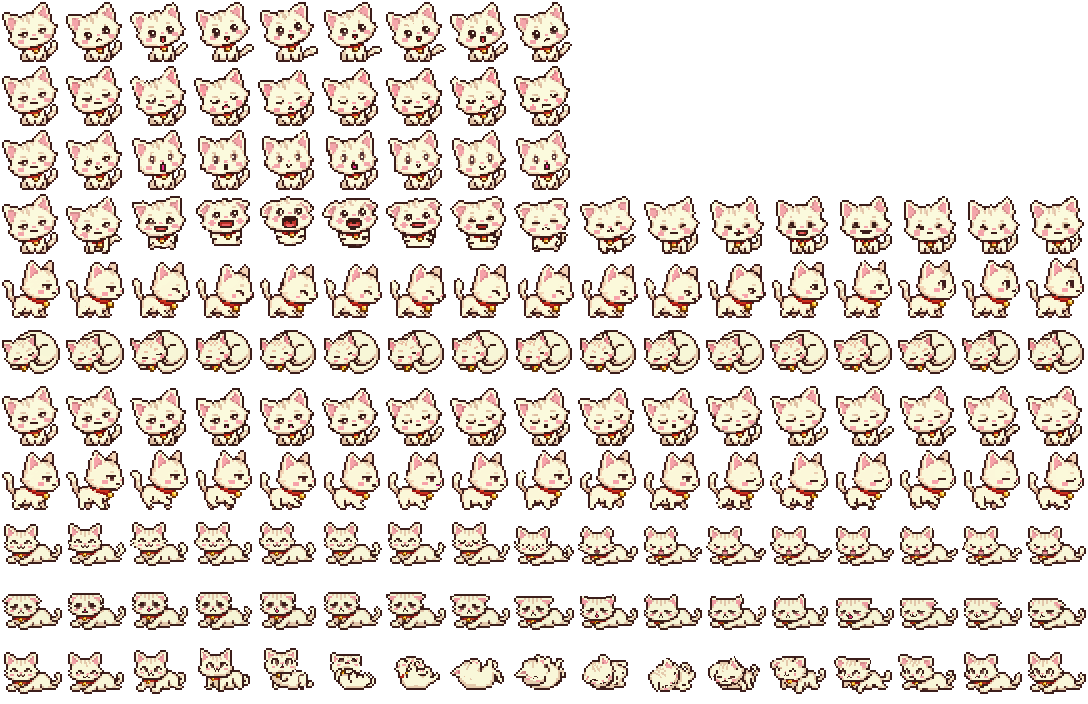
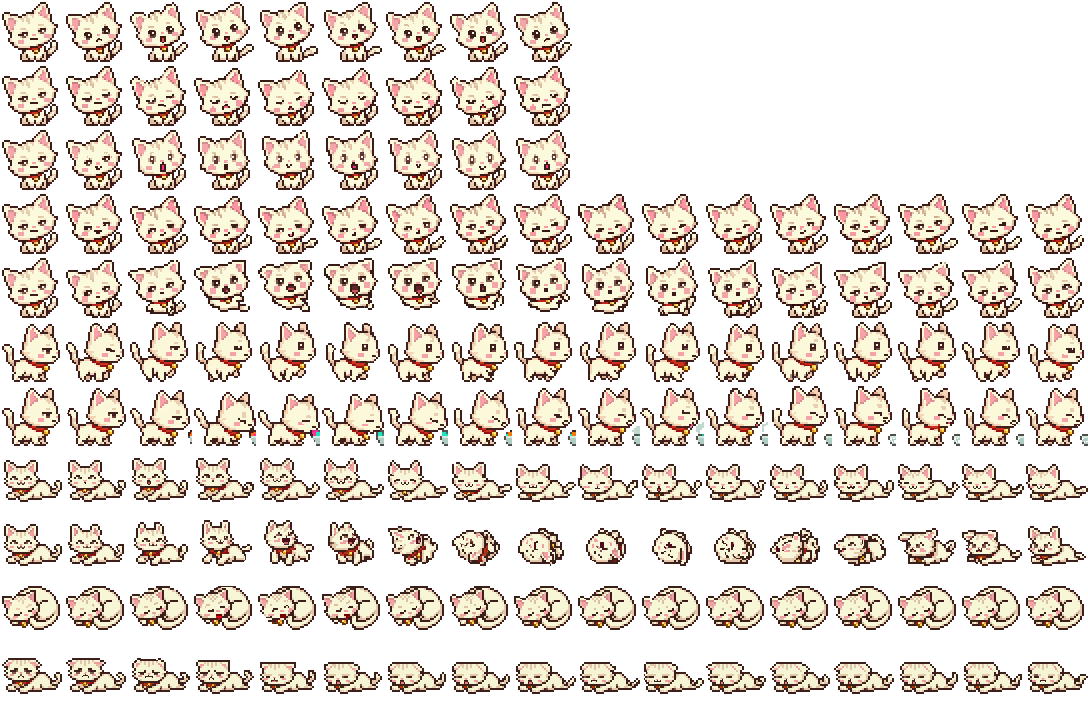
Новые анимации для взрослых кошек (1.25.0) (#83)
Claude-Session: https://claude.ai/code/session_01Xy48j64qLpetrE3qonuyEK

Changed region(s): [[0.0, 0.2812, 1.0, 1.0]]

diff --git a/src/render/petMeta.ts b/src/render/petMeta.ts
@@ -20,15 +20,15 @@ export interface SheetMeta {
 }
 
 export const PET_META: Readonly<Record<string, SheetMeta>> = {
-  cat_adultGood: { cell: 64, cols: 17, rows: ['idle', 'sleep', 'eat', 'catch', 'eat_side', 'roll', 'sleep_twitch', 'idle_calm', 'walk_calm', 'lie_calm', 'lie_sad'], feet: 62, left: 2, right: 60, rowInfo: { catch: { feet: 62, left: 2, right: 60, frames: 17 }, eat_side: { feet: 62, left: 2, right: 64, frames: 17 }, roll: { feet: 58, left: 2, right: 62, frames: 17 }, sleep_twitch: { feet: 58, left: 2, right: 58, frames: 17 }, idle_calm: { feet: 62, left: 2, right: 60, frames: 17 }, walk_calm: { feet: 62, left: 2, right: 62, frames: 17 }, lie_calm: { feet: 58, left: 2, right: 62, frames: 17 }, lie_sad: { feet: 58, left: 2, right: 62, frames: 17 } } },
+  cat_adultGood: { cell: 64, cols: 17, rows: ['idle', 'sleep', 'eat', 'idle_v3', 'catch_v3', 'walk_v3', 'eat_v3', 'lie_v3', 'roll_v3', 'sleep_v3', 'sad_v3'], feet: 62, left: 2, right: 60, rowInfo: { idle_v3: { feet: 62, left: 2, right: 62, frames: 17 }, catch_v3: { feet: 62, left: 2, right: 60, frames: 17 }, walk_v3: { feet: 62, left: 2, right: 62, frames: 17 }, eat_v3: { feet: 62, left: 0, right: 64, frames: 17 }, lie_v3: { feet: 58, left: 0, right: 62, frames: 17 }, roll_v3: { feet: 58, left: 2, right: 62, frames: 17 }, sleep_v3: { feet: 58, left: 2, right: 58, frames: 17 }, sad_v3: { feet: 58, left: 2, right: 62, frames: 17 } } },
   blob_adultGood: { cell: 64, cols: 17, rows: ['idle', 'sleep', 'eat', 'catch', 'eat_side', 'roll', 'sleep_twitch', 'idle_calm', 'walk_calm', 'lie_calm', 'lie_sad'], feet: 62, left: 4, right: 60, rowInfo: { catch: { feet: 62, left: 4, right: 60, frames: 17 }, eat_side: { feet: 56, left: 4, right: 60, frames: 17 }, roll: { feet: 58, left: 4, right: 60, frames: 17 }, sleep_twitch: { feet: 56, left: 4, right: 60, frames: 17 }, idle_calm: { feet: 62, left: 4, right: 60, frames: 17 }, walk_calm: { feet: 56, left: 4, right: 60, frames: 17 }, lie_calm: { feet: 58, left: 4, right: 60, frames: 17 }, lie_sad: { feet: 58, left: 4, right: 60, frames: 17 } } },
   dog_adultGood: { cell: 64, cols: 17, rows: ['idle', 'sleep', 'eat', 'catch', 'eat_side', 'roll', 'sleep_twitch', 'idle_calm', 'walk_calm', 'lie_calm', 'lie_sad'], feet: 64, left: 2, right: 62, rowInfo: { catch: { feet: 64, left: 2, right: 62, frames: 17 }, eat_side: { feet: 60, left: 2, right: 62, frames: 17 }, roll: { feet: 54, left: 6, right: 61, frames: 17 }, sleep_twitch: { feet: 54, left: 4, right: 60, frames: 17 }, idle_calm: { feet: 64, left: 2, right: 62, frames: 17 }, walk_calm: { feet: 60, left: 4, right: 60, frames: 17 }, lie_calm: { feet: 54, left: 8, right: 60, frames: 17 }, lie_sad: { feet: 54, left: 6, right: 58, frames: 17 } } },
   cat_baby: { cell: 64, cols: 17, rows: ['idle', 'sleep', 'eat', 'idle_v3', 'catch_v3', 'walk_v3', 'eat_v3', 'lie_v3', 'roll_v3', 'sleep_v3', 'sad_v3'], feet: 58, left: 10, right: 54, rowInfo: { idle_v3: { feet: 58, left: 12, right: 52, frames: 17 }, catch_v3: { feet: 58, left: 12, right: 52, frames: 17 }, walk_v3: { feet: 58, left: 6, right: 56, frames: 17 }, eat_v3: { feet: 58, left: 6, right: 60, frames: 17 }, lie_v3: { feet: 56, left: 4, right: 58, frames: 17 }, roll_v3: { feet: 56, left: 4, right: 58, frames: 17 }, sleep_v3: { feet: 52, left: 8, right: 54, frames: 17 }, sad_v3: { feet: 56, left: 4, right: 58, frames: 17 } } },
   cat_child: { cell: 64, cols: 17, rows: ['idle', 'sleep', 'eat', 'idle_v3', 'catch_v3', 'walk_v3', 'eat_v3', 'lie_v3', 'roll_v3', 'sleep_v3', 'sad_v3'], feet: 62, left: 6, right: 58, rowInfo: { idle_v3: { feet: 62, left: 8, right: 60, frames: 17 }, catch_v3: { feet: 62, left: 8, right: 60, frames: 17 }, walk_v3: { feet: 62, left: 2, right: 60, frames: 17 }, eat_v3: { feet: 62, left: 0, right: 64, frames: 17 }, lie_v3: { feet: 60, left: 4, right: 60, frames: 17 }, roll_v3: { feet: 60, left: 2, right: 62, frames: 17 }, sleep_v3: { feet: 51, left: 8, right: 56, frames: 17 }, sad_v3: { feet: 60, left: 2, right: 62, frames: 17 } } },
   cat_teen: { cell: 64, cols: 17, rows: ['idle', 'sleep', 'eat', 'idle_v3', 'catch_v3', 'walk_v3', 'eat_v3', 'lie_v3', 'roll_v3', 'sleep_v3', 'sad_v3'], feet: 63, left: 10, right: 58, rowInfo: { idle_v3: { feet: 63, left: 13, right: 56, frames: 17 }, catch_v3: { feet: 63, left: 7, right: 59, frames: 17 }, walk_v3: { feet: 56, left: 2, right: 61, frames: 17 }, eat_v3: { feet: 56, left: 2, right: 64, frames: 17 }, lie_v3: { feet: 52, left: 2, right: 63, frames: 17 }, roll_v3: { feet: 52, left: 1, right: 64, frames: 17 }, sleep_v3: { feet: 55, left: 4, right: 60, frames: 17 }, sad_v3: { feet: 52, left: 2, right: 63, frames: 17 } } },
-  cat_adultNaughty: { cell: 64, cols: 17, rows: ['idle', 'sleep', 'eat', 'catch', 'eat_side', 'sleep_twitch', 'idle_calm', 'walk_calm', 'lie_calm', 'lie_sad', 'roll'], feet: 62, left: 2, right: 62, rowInfo: { catch: { feet: 62, left: 2, right: 60, frames: 17 }, eat_side: { feet: 62, left: 2, right: 60, frames: 17 }, sleep_twitch: { feet: 58, left: 2, right: 62, frames: 17 }, idle_calm: { feet: 62, left: 2, right: 62, frames: 17 }, walk_calm: { feet: 62, left: 2, right: 60, frames: 17 }, lie_calm: { feet: 56, left: 4, right: 62, frames: 17 }, lie_sad: { feet: 56, left: 2, right: 62, frames: 17 }, roll: { feet: 56, left: 4, right: 64, frames: 17 } } },
+  cat_adultNaughty: { cell: 64, cols: 17, rows: ['idle', 'sleep', 'eat', 'idle_v3', 'catch_v3', 'walk_v3', 'eat_v3', 'lie_v3', 'roll_v3', 'sleep_v3', 'sad_v3'], feet: 62, left: 2, right: 62, rowInfo: { idle_v3: { feet: 62, left: 2, right: 62, frames: 17 }, catch_v3: { feet: 62, left: 2, right: 60, frames: 17 }, walk_v3: { feet: 62, left: 2, right: 60, frames: 17 }, eat_v3: { feet: 62, left: 2, right: 62, frames: 17 }, lie_v3: { feet: 56, left: 4, right: 62, frames: 17 }, roll_v3: { feet: 56, left: 4, right: 64, frames: 17 }, sleep_v3: { feet: 58, left: 2, right: 62, frames: 17 }, sad_v3: { feet: 56, left: 2, right: 64, frames: 17 } } },
   cat_elder: { cell: 64, cols: 17, rows: ['idle', 'sleep', 'eat', 'idle_v3', 'catch_v3', 'walk_v3', 'eat_v3', 'lie_v3', 'roll_v3', 'sleep_v3', 'sad_v3'], feet: 62, left: 2, right: 58, rowInfo: { idle_v3: { feet: 62, left: 2, right: 62, frames: 17 }, catch_v3: { feet: 62, left: 0, right: 60, frames: 17 }, walk_v3: { feet: 60, left: 4, right: 60, frames: 17 }, eat_v3: { feet: 60, left: 2, right: 60, frames: 17 }, lie_v3: { feet: 54, left: 2, right: 62, frames: 17 }, roll_v3: { feet: 54, left: 2, right: 64, frames: 17 }, sleep_v3: { feet: 56, left: 2, right: 62, frames: 17 }, sad_v3: { feet: 54, left: 2, right: 63, frames: 17 } } },
-  cat_adultNormal: { cell: 64, cols: 17, rows: ['idle', 'sleep', 'eat', 'catch', 'eat_side', 'sleep_twitch', 'idle_calm', 'walk_calm', 'lie_calm', 'lie_sad', 'roll'], feet: 62, left: 2, right: 62, rowInfo: { catch: { feet: 62, left: 2, right: 60, frames: 17 }, eat_side: { feet: 62, left: 2, right: 62, frames: 17 }, sleep_twitch: { feet: 54, left: 2, right: 60, frames: 17 }, idle_calm: { feet: 62, left: 2, right: 62, frames: 17 }, walk_calm: { feet: 62, left: 2, right: 60, frames: 17 }, lie_calm: { feet: 54, left: 2, right: 64, frames: 17 }, lie_sad: { feet: 54, left: 2, right: 62, frames: 17 }, roll: { feet: 54, left: 2, right: 62, frames: 17 } } },
+  cat_adultNormal: { cell: 64, cols: 17, rows: ['idle', 'sleep', 'eat', 'idle_v3', 'catch_v3', 'walk_v3', 'eat_v3', 'lie_v3', 'roll_v3', 'sleep_v3', 'sad_v3'], feet: 62, left: 2, right: 62, rowInfo: { idle_v3: { feet: 62, left: 2, right: 62, frames: 17 }, catch_v3: { feet: 62, left: 0, right: 62, frames: 17 }, walk_v3: { feet: 62, left: 2, right: 60, frames: 17 }, eat_v3: { feet: 62, left: 0, right: 64, frames: 17 }, lie_v3: { feet: 54, left: 2, right: 64, frames: 17 }, roll_v3: { feet: 54, left: 2, right: 62, frames: 17 }, sleep_v3: { feet: 54, left: 2, right: 60, frames: 17 }, sad_v3: { feet: 54, left: 2, right: 64, frames: 17 } } },
   blob_baby: { cell: 64, cols: 17, rows: ['idle', 'sleep', 'eat', 'idle_v3', 'catch_v3', 'walk_v3', 'eat_v3', 'lie_v3', 'roll_v3', 'sleep_v3', 'sad_v3'], feet: 52, left: 17, right: 47, rowInfo: { idle_v3: { feet: 52, left: 18, right: 46, frames: 17 }, catch_v3: { feet: 52, left: 13, right: 49, frames: 17 }, walk_v3: { feet: 52, left: 12, right: 52, frames: 17 }, eat_v3: { feet: 52, left: 11, right: 54, frames: 17 }, lie_v3: { feet: 52, left: 14, right: 48, frames: 17 }, roll_v3: { feet: 52, left: 14, right: 48, frames: 17 }, sleep_v3: { feet: 52, left: 18, right: 46, frames: 17 }, sad_v3: { feet: 52, left: 14, right: 48, frames: 17 } } },
   blob_child: { cell: 64, cols: 17, rows: ['idle', 'sleep', 'eat', 'idle_v3', 'catch_v3', 'walk_v3', 'eat_v3', 'lie_v3', 'roll_v3', 'sleep_v3', 'sad_v3'], feet: 52, left: 10, right: 54, rowInfo: { idle_v3: { feet: 52, left: 14, right: 50, frames: 17 }, catch_v3: { feet: 54, left: 9, right: 54, frames: 17 }, walk_v3: { feet: 52, left: 10, right: 54, frames: 17 }, eat_v3: { feet: 52, left: 8, right: 64, frames: 17 }, lie_v3: { feet: 52, left: 12, right: 52, frames: 17 }, roll_v3: { feet: 52, left: 10, right: 54, frames: 17 }, sleep_v3: { feet: 52, left: 12, right: 52, frames: 17 }, sad_v3: { feet: 52, left: 10, right: 54, frames: 17 } } },
   blob_teen: { cell: 64, cols: 17, rows: ['idle', 'sleep', 'eat', 'idle_v3', 'catch_v3', 'walk_v3', 'eat_v3', 'lie_v3', 'roll_v3', 'sleep_v3', 'sad_v3'], feet: 62, left: 10, right: 54, rowInfo: { idle_v3: { feet: 62, left: 10, right: 54, frames: 17 }, catch_v3: { feet: 62, left: 8, right: 56, frames: 17 }, walk_v3: { feet: 62, left: 8, right: 56, frames: 17 }, eat_v3: { feet: 62, left: 8, right: 58, frames: 17 }, lie_v3: { feet: 56, left: 8, right: 56, frames: 17 }, roll_v3: { feet: 57, left: 6, right: 58, frames: 17 }, sleep_v3: { feet: 54, left: 6, right: 58, frames: 17 }, sad_v3: { feet: 56, left: 6, right: 58, frames: 17 } } },

diff --git a/src/version.ts b/src/version.ts
@@ -1,2 +1,2 @@
 /** Версия игры — показывается в настройках. Меняется вместе с package.json. */
-export const APP_VERSION = '1.24.1';
+export const APP_VERSION = '1.25.0';
